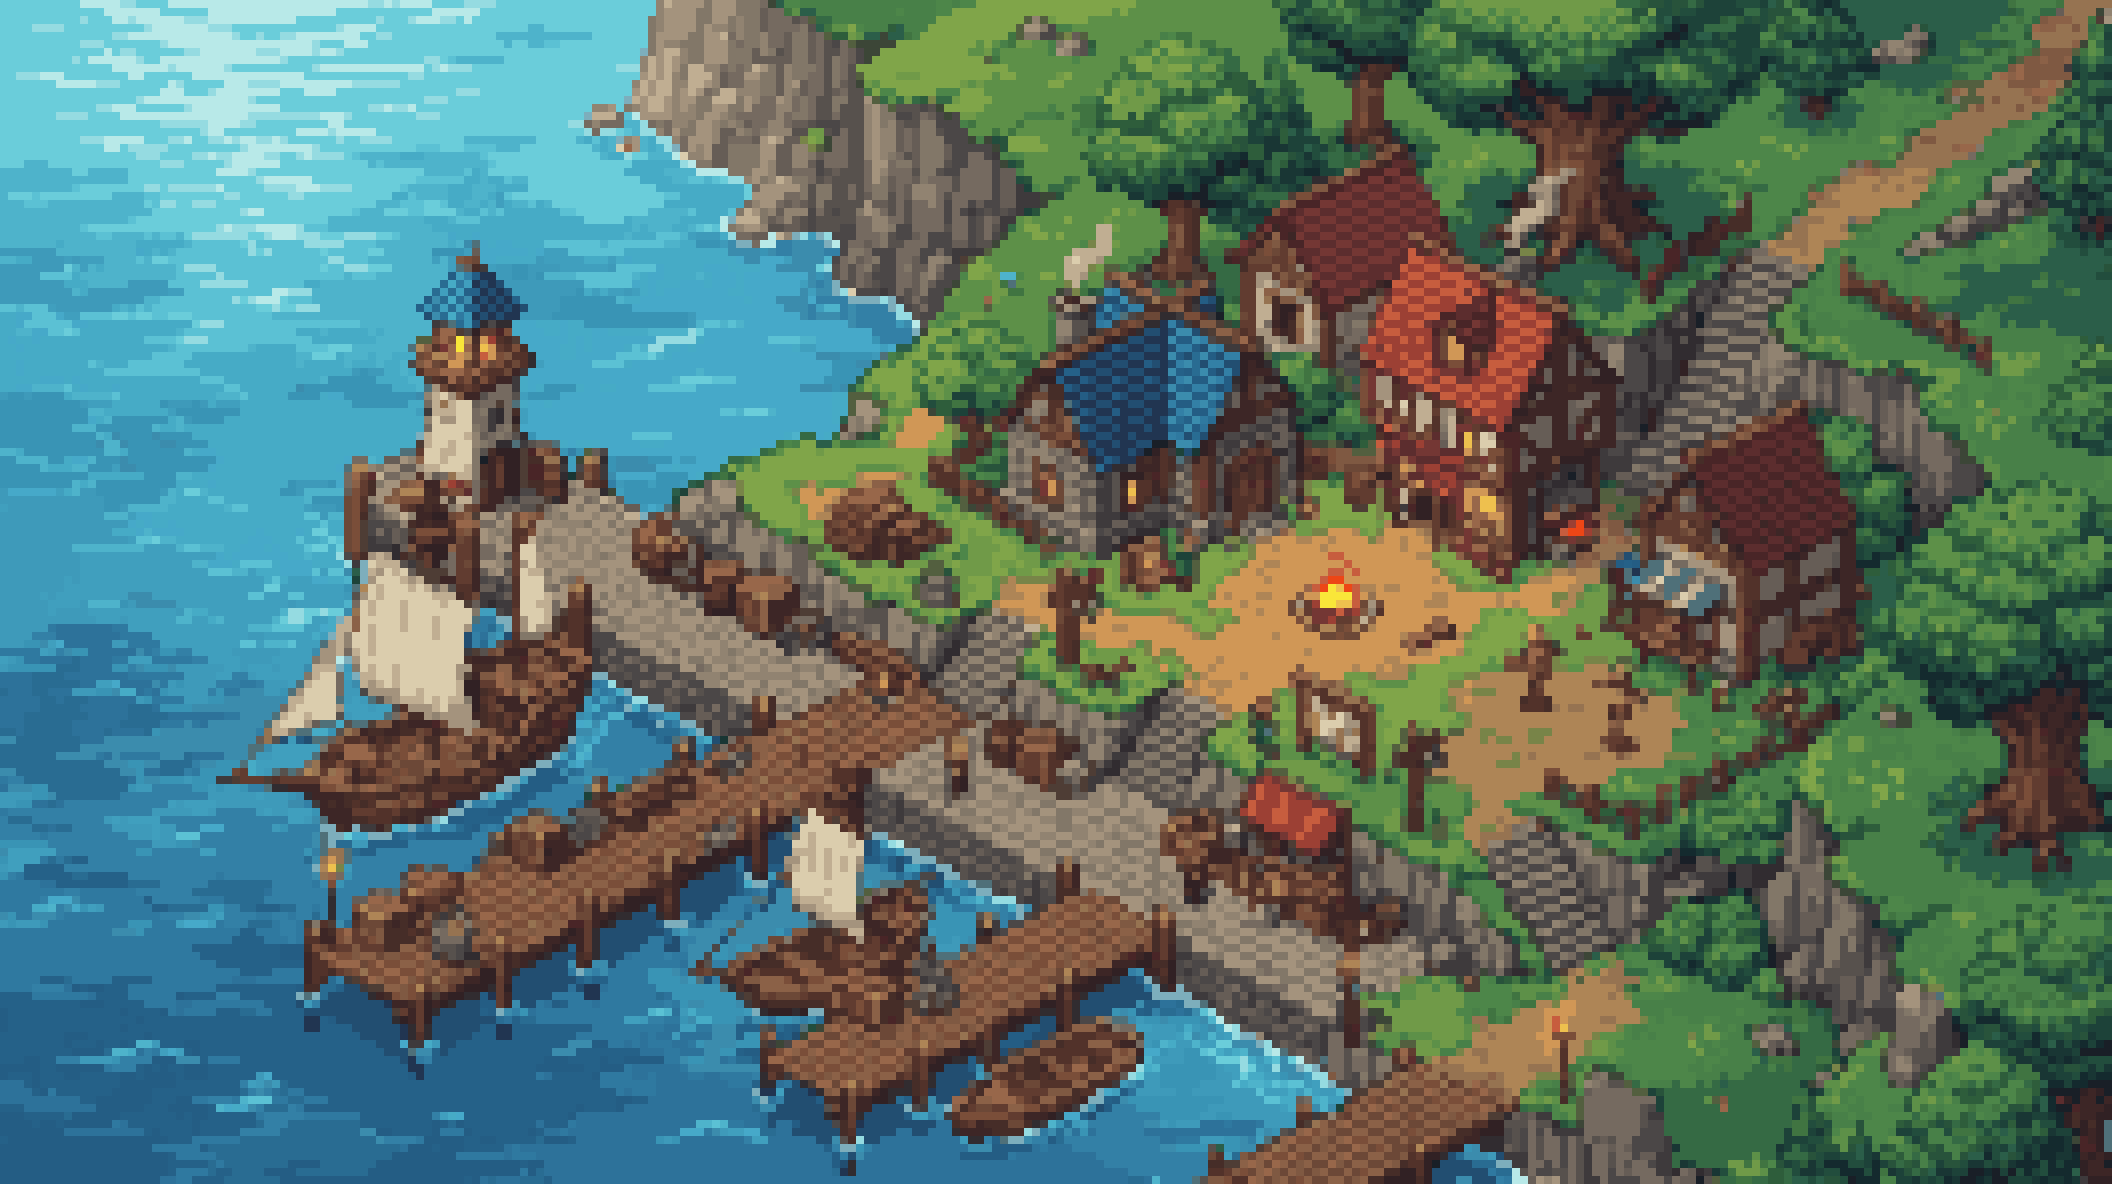
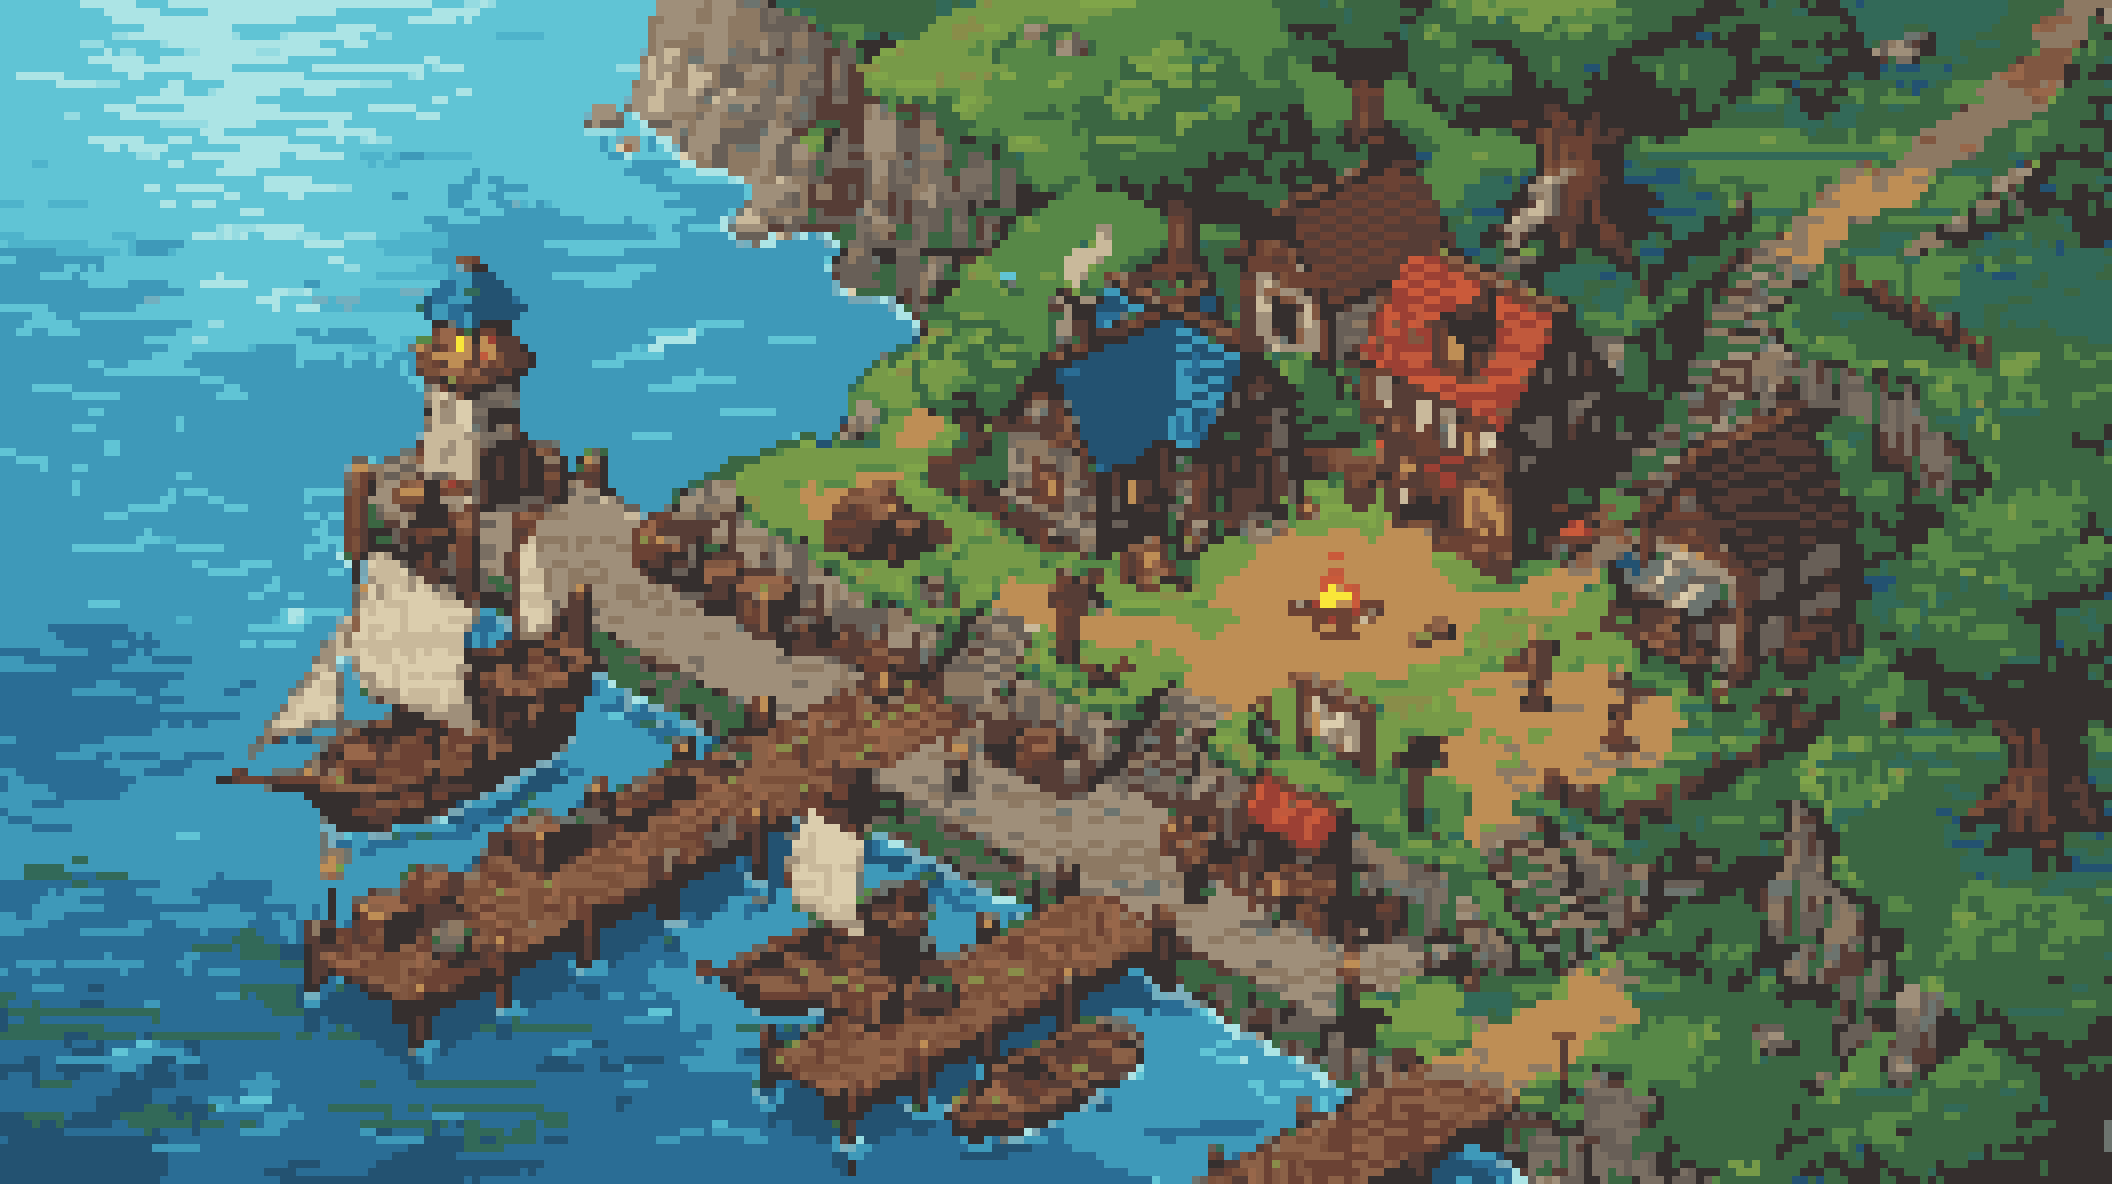
Aether card fronts and the 8 px village: text box flat, layout fitted to the new frame
- Resources/Cards card_<tier> fronts and backs from Aether (backs stretched, nearest neighbour, to the front's
  outline so the card doesn't jump in size when it turns); Tools/cards_flatten.ps1 flattens each text box to
  #e9d6ae and clears the rare medallion's letter marks
- CardDraftUI to the new fronts (no name ribbon): medallion 186, set badge 140, picture 56, name -84 x 224,
  text -136 x 70 - inside the text box of all three
- HarborVillage: the 8 px / 48-colour remake, same layout
- Point filter, no compression on all of them (the village was bilinear, every one had a compressed override);
  pixels per unit kept; Credits: Aether

diff --git a/Assets/CS/CardDraftUI.cs b/Assets/CS/CardDraftUI.cs
@@ -318,15 +318,15 @@ public class CardDraftUI : MonoBehaviour
     // 512 x 768 art scaled by 0.625): medallion at the top, picture window, text box below it.
     const float CardW = 320f, CardH = 480f;
     public const float CardWidth = CardW, CardHeight = CardH;
-    static readonly Vector2 MedallionPos = new Vector2(0f, 214f), MedallionSize = new Vector2(70f, 34f);
-    // The middle of the frame's picture window (card art rows 44-287 of 480: centre 74 above the card's middle).
-    static readonly Vector2 PicturePos = new Vector2(0f, 74f), PictureSize = new Vector2(160f, 160f);
+    static readonly Vector2 MedallionPos = new Vector2(0f, 186f), MedallionSize = new Vector2(70f, 34f); // the Aether fronts' circle (art rows 44-130 of 768)
+    // In the picture window (art rows ~130-440 of 768: +159 to -35), under the set badge at its top (+140).
+    static readonly Vector2 PicturePos = new Vector2(0f, 56f), PictureSize = new Vector2(160f, 160f);
     const float IconSize = 128f; // the 64 px skill icons at exactly x2 (0.78 x 160 = 125 drew uneven pixels)
     // The text box is kept inside the cream area: the frame's corner ornaments cut into its sides and bottom,
     // and a box as wide as the frame let a long line or a fourth line run onto them.
-    static readonly Vector2[] TextPos = { new Vector2(0f, -136f), new Vector2(0f, -136f), new Vector2(0f, -136f) };
-    static readonly Vector2[] TextSize = { new Vector2(224f, 92f), new Vector2(224f, 92f), new Vector2(224f, 92f) };
-    static readonly Vector2 NamePos = new Vector2(0f, -60f), NameSize = new Vector2(280f, 40f);
+    static readonly Vector2[] TextPos = { new Vector2(0f, -136f), new Vector2(0f, -136f), new Vector2(0f, -136f) }; // the text box: -65 to -172 on all three fronts (art rows 472-703)
+    static readonly Vector2[] TextSize = { new Vector2(224f, 70f), new Vector2(224f, 70f), new Vector2(224f, 70f) };
+    static readonly Vector2 NamePos = new Vector2(0f, -84f), NameSize = new Vector2(224f, 36f); // the box's top line (no name ribbon on these fronts)
 
     // Ink per grade, readable on that card's text box (cream / pale blue / lavender).
     static readonly (string name, string level, Color body, Color medallion)[] Inks =
@@ -434,8 +434,8 @@ public class CardDraftUI : MonoBehaviour
 
         // Set badge over the top of the picture when this card would open or finish a set.
         string badge = SetBadge(card);
-        var badgePlate = Child<Image>(button, "SetBadgePlate", new Vector2(0f, 172f), new Vector2(230f, 38f));
-        var badgeText = Child<TextMeshProUGUI>(button, "SetBadge", new Vector2(0f, 172f), new Vector2(230f, 38f));
+        var badgePlate = Child<Image>(button, "SetBadgePlate", new Vector2(0f, 140f), new Vector2(230f, 38f));
+        var badgeText = Child<TextMeshProUGUI>(button, "SetBadge", new Vector2(0f, 140f), new Vector2(230f, 38f));
         badgePlate.color = UiTheme.Plate;
         badgePlate.raycastTarget = false;
         badgeText.font = label.font;
